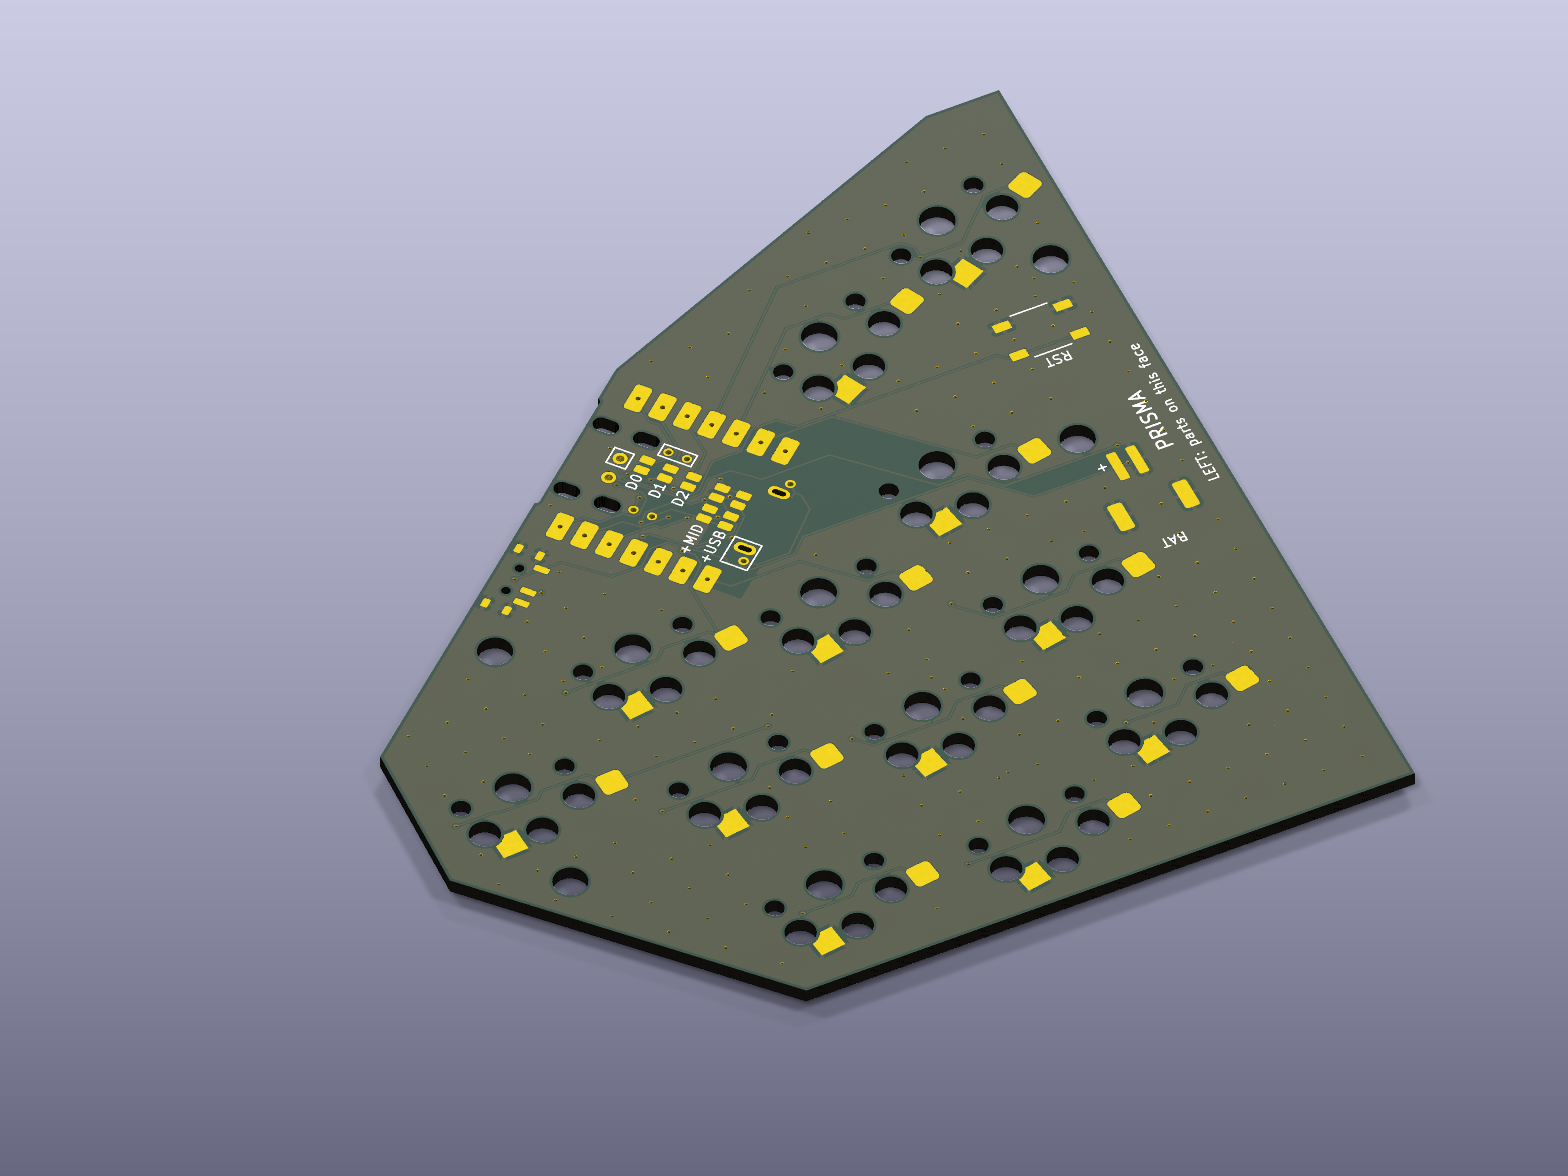
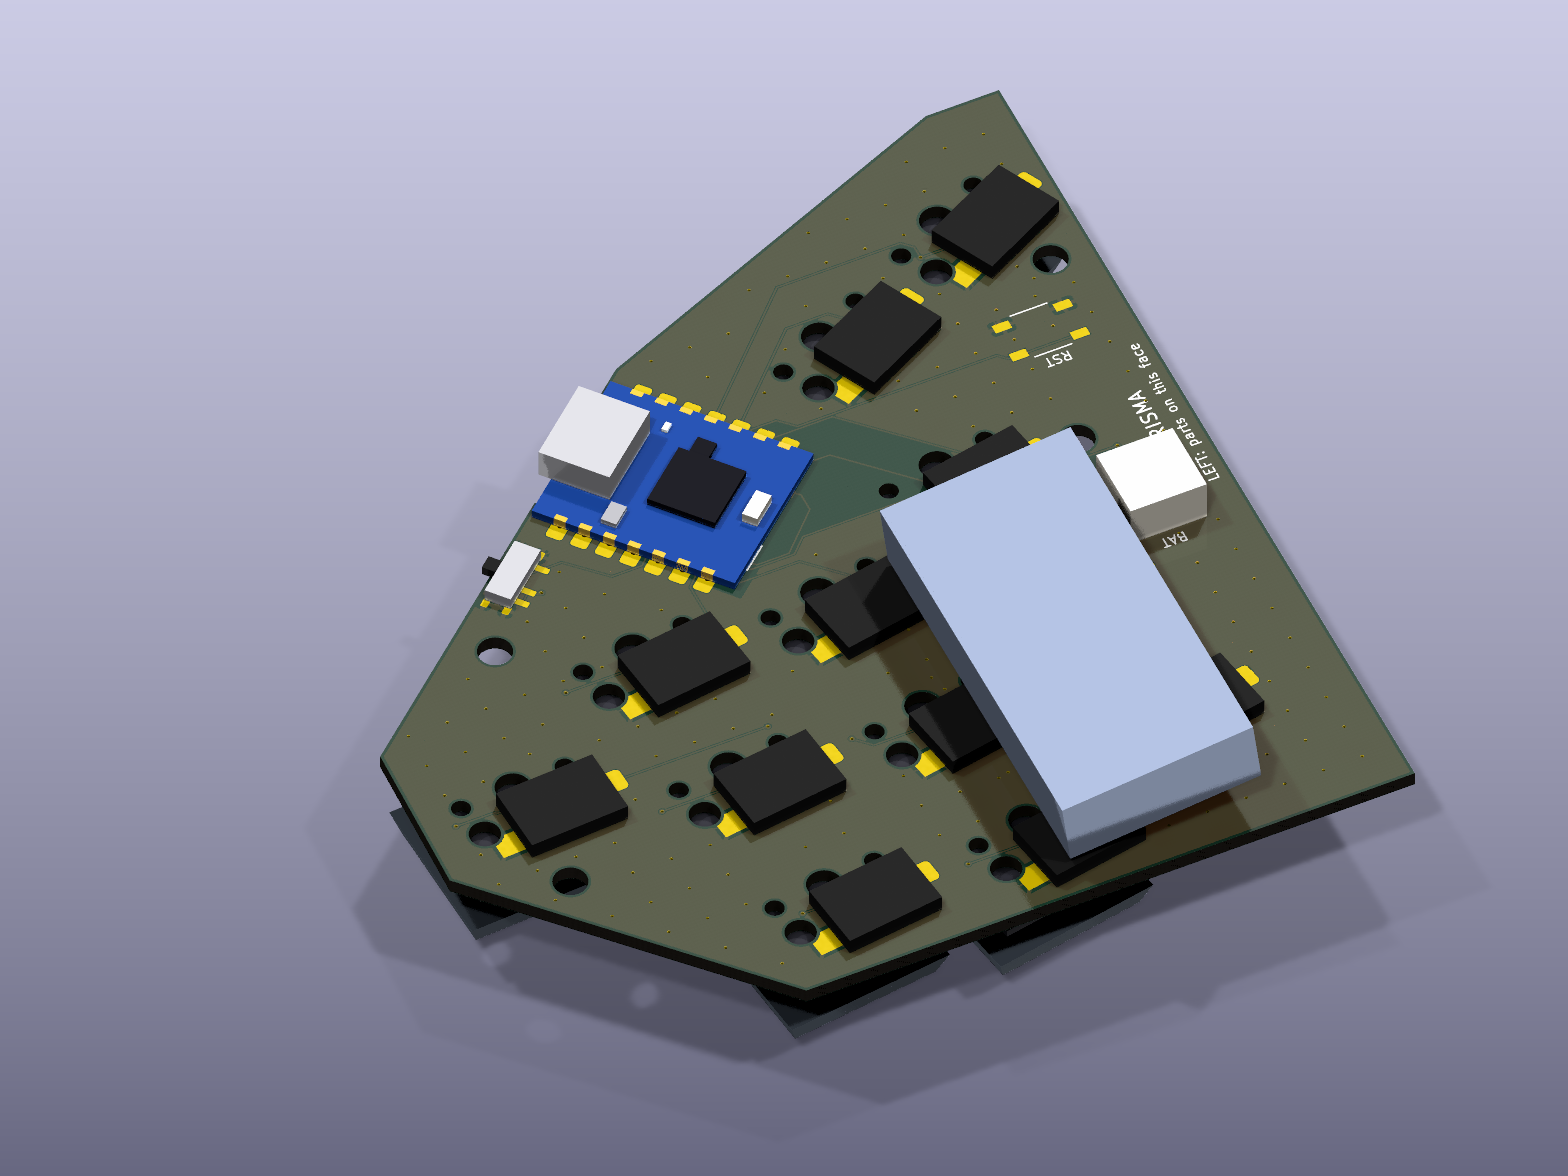
Illustrate each soldering step and fix the bare parts renders

diff --git a/index.html b/index.html
@@ -799,17 +799,18 @@ time. Both halves use the same PCB, turned over for the right half.</p>
 <div class="table"><table>
 <thead>
 <tr>
-<th>Parts face: controller, sockets and power switch</th>
-<th>Switch face: board artwork and soldering access</th>
+<th>Parts face: module, sockets, power switch, JST and battery</th>
+<th>Switch face: switches, keycaps and reset button</th>
 </tr>
 </thead>
 <tbody>
 <tr>
 <td><img alt="Populated parts face of the left half" src="renders/parts_bottom.png" /></td>
-<td><img alt="Opposite face of the left half's bare PCB" src="renders/board_top.png" /></td>
+<td><img alt="Populated switch face of the left half" src="renders/parts_top.png" /></td>
 </tr>
 </tbody>
 </table></div>
+<p>The pictures in steps 2–6 show the left half, adding one part at a time.</p>
 <h3 id="b-before-you-start">Before you start</h3>
 <ul>
 <li><strong>Flash and test the module first.</strong> Plug it into USB and double-tap reset: a USB drive appears. Copy the firmware onto it:</li>
@@ -868,6 +869,8 @@ time. Both halves use the same PCB, turned over for the right half.</p>
 <p>Leave the jumpers on the other face open: they're on the parts face, under where the module will sit.</p>
 <p><strong>Check:</strong> each bridged pair beeps on the multimeter, and the unbridged selector row doesn't.</p>
 <h3 id="b-2-solder-the-module-parts-face">2. Solder the module (parts face)</h3>
+<p><img alt="Module soldered flat on the left half's parts face" src="renders/step_module.png" /></p>
+<p><em>The module on its outline, components up, USB-C towards the board edge.</em></p>
 <ol>
 <li><strong>Pre-tin the module's underside pads</strong> that the boxed holes reach: the two battery pads (VBAT and GND on the XIAO, B+ and B- on the Super52840), the P0.09 pad (NFC1 on the XIAO, <code>009</code> on the Super52840) and RST. Flux each one and touch it with a lightly tinned iron, leaving a thin, flat coat. Wick off any bump: a blob lifts the module off its edge pads. In step 4 the solder fed into each hole then only has to melt into the coat that's already there.</li>
 <li>Flux the 14 edge pads. Lay the module flat over its outline with the USB-C end towards the board edge. The pads are pulled out past the module, so you can reach them from the side.</li>
@@ -886,6 +889,8 @@ time. Both halves use the same PCB, turned over for the right half.</p>
 <li>No two adjacent castellations beep to each other.</li>
 </ul>
 <h3 id="b-3-power-switch-msk-12c02-parts-face">3. Power switch, MSK-12C02 (parts face)</h3>
+<p><img alt="Power switch added beside the module's USB-C end" src="renders/step_switch.png" /></p>
+<p><em>Added: the power switch beside the USB-C port, lever out over the edge.</em></p>
 <p>It goes next to the module's USB-C, with the lever pointing out over the board edge and its two locating pegs in the small holes.</p>
 <ol>
 <li>Tin one of the four corner (shield) pads. Place the switch with tweezers and reheat that pad to tack it.</li>
@@ -893,14 +898,20 @@ time. Both halves use the same PCB, turned over for the right half.</p>
 <li>Solder the three signal pads with the fine tip and very little solder. A bridge between the middle pin and its near neighbour does no harm (both are VBAT). A bridge from the middle pin to the far one bypasses the switch: wick it away.</li>
 </ol>
 <h3 id="b-4-jst-battery-socket-parts-face">4. JST battery socket (parts face)</h3>
+<p><img alt="JST battery socket added at the BAT outline" src="renders/step_jst.png" /></p>
+<p><em>Added: the white JST socket at the <code>BAT</code> outline.</em></p>
 <p>Its opening faces the battery's spot under the inner keys. Tack one signal pin, check it sits flat, and solder the other pin. Then solder the two large mounting tabs: they need more heat and more solder, because they take the force of plugging the battery in.</p>
 <h3 id="b-5-hot-swap-sockets-parts-face">5. Hot-swap sockets (parts face)</h3>
+<p><img alt="Twelve hot-swap sockets added on the parts face" src="renders/step_sockets.png" /></p>
+<p><em>Added: the twelve black sockets, one per key.</em></p>
 <p>Twelve, one per key. Each socket fits its outline only one way round.</p>
 <ol>
 <li>Tin one pad lightly, place the socket, and hold it flat with tweezers while you reheat the pad until the socket's metal tab sinks into the solder.</li>
 <li>Solder the second tab. Use enough solder to make a fillet, but keep it out of the socket's opening.</li>
 </ol>
 <h3 id="b-6-reset-button-ts-1187a-switch-face">6. Reset button, TS-1187A (switch face)</h3>
+<p><img alt="Reset button on the switch face at the RST outline" src="renders/step_reset.png" /></p>
+<p><em>Turned over: the reset button at the <code>RST</code> outline.</em></p>
 <p>It goes on the <strong>switch face</strong>, in the gap above the thumb keys, inside its outline labelled <code>RST</code>. The part is square and symmetric: any of the four ways round works.</p>
 <ol>
 <li>Tin one corner pad, hold the button flat and centred with tweezers, and reheat the pad to tack it.</li>
@@ -980,6 +991,7 @@ time. Both halves use the same PCB, turned over for the right half.</p>
 <p><img alt="Both floors from below: the pads in black" src="renders/pads.png" /></p>
 <p>Clean the slots with isopropyl alcohol first and press each pad down firmly against the slot's roof, centred in its round end. Stack the halves to check: they should close flat, with no rocking.</p>
 <h3 id="b-taking-a-switch-out">Taking a switch out</h3>
+<p><img alt="Top plate with a pair of puller grooves at each switch opening" src="renders/plate.png" /></p>
 <p>The plates and the Choc lids carry two grooves per switch, as on the ZSA Voyager, because a Choc switch has no side indents for a puller to grip. A switch is held by four latch barbs under the plate's lip; a pull on the keycap is not meant to release it.</p>
 <ol>
 <li>Switch the keyboard off, unplug USB, and remove any module from the dock before inserting the metal puller. Then pull the keycap straight up with a keycap puller.</li>
@@ -1343,6 +1355,7 @@ the passive lid, and both powered dongles (headless and OLED).</p>
 </table></div>
 <p>Take it out of the dock, unplug USB, switch it off, and take off the keycaps and ball. Undo the four lid screws and tilt the lid up from the front. The main board stays: it is soldered to the eight stacking pins, so desolder them to take it out. On the trackpad the lid remains attached by the supplied flat cable and the separate DR wire; support it without pulling either, and release the FFC latch if the available slack is insufficient.</p>
 <h3 id="b-resetting-a-closed-half">Resetting a closed half</h3>
+<p><img alt="Assembled left half with the reset cone above the thumb keys" src="renders/full.png" /></p>
 <p>Press straight down into the cone above the thumbs with a fingertip (the pad, not the nail, is enough: the cone is 4.2 mm across at the top and the plunger 2.0 mm wide).</p>
 <ul>
 <li><strong>Once:</strong> the half reboots.</li>

diff --git a/render_boards.py b/render_boards.py
@@ -66,6 +66,28 @@ def main():
     model_fp(b, "CASE", "${KIPRJMOD}/3d/case.wrl")
     save(b, "full")
 
+    # BUILD.md's soldering steps, cumulative: only the parts fitted so far.
+    fitted = []
+    for step, refs in (("module", ["U1"]), ("switch", ["SW13"]), ("jst", ["J1"]),
+                       ("sockets", [f"SW{i}" for i in range(1, 13)]), ("reset", ["SW14"])):
+        fitted += refs
+        b = pcbnew.LoadBoard(SRC)
+        for fp in b.GetFootprints():
+            ref = fp.GetReference()
+            models = fp.Models()
+            if ref not in fitted:
+                models.clear()
+                continue
+            for i in range(len(models)):
+                m = models[i]
+                if ref in ("U1", "SW13", "J1"):      # under the board, as in "parts"
+                    m.m_Rotation = pcbnew.VECTOR3D(0, 180, 0)
+                    m.m_Offset = pcbnew.VECTOR3D(0, 0, -1.6)
+                elif ref != "SW14":                  # the socket without its switch and cap
+                    m.m_Filename = "${KIPRJMOD}/3d/choc_socket.wrl"
+                models[i] = m
+        save(b, f"step_{step}")
+
     # case alone: a speck of board at the case's centre (the camera centres on the board)
     xs = [p[0] for p in D["case_outline"]]
     ys = [p[1] for p in D["case_outline"]]

diff --git a/vrml.py b/vrml.py
@@ -70,6 +70,7 @@ def models(d="pcb/3d"):
         (box(-2.45, -8.45, -1.6 - 1.85, 7.75, -1.25, -1.6), SOCKET),
     ]
     write_parts(f"{d}/choc_v1_with_cap.wrl", switch)
+    write_parts(f"{d}/choc_socket.wrl", switch[-1:])                 # alone, for the build steps
     # XIAO nRF52840 as mounted on the F face (pad side down, USB end at -y); render_boards.py
     # turns it under the board for the parts on the bottom face. Seeed's layout: USB-C hanging
     # 1.3 mm past the end, nRF52840 mid-board, chip antenna at the far end, reset button and

diff --git a/BUILD.md b/BUILD.md
@@ -31,9 +31,11 @@ Each board has a **parts face** and a **switch face**. The silkscreen tells you 
 
 The module always lies flat on the parts face, with its pad side against the PCB and its components (USB-C, shield, reset button) pointing away from it, towards the case floor.
 
-| Parts face: controller, sockets and power switch | Switch face: board artwork and soldering access |
+| Parts face: module, sockets, power switch, JST and battery | Switch face: switches, keycaps and reset button |
 |---|---|
-| ![Populated parts face of the left half](renders/parts_bottom.png) | ![Opposite face of the left half's bare PCB](renders/board_top.png) |
+| ![Populated parts face of the left half](renders/parts_bottom.png) | ![Populated switch face of the left half](renders/parts_top.png) |
+
+The pictures in steps 2–6 show the left half, adding one part at a time.
 
 ## Before you start
 
@@ -73,6 +75,10 @@ Leave the jumpers on the other face open: they're on the parts face, under where
 
 ## 2. Solder the module (parts face)
 
+![Module soldered flat on the left half's parts face](renders/step_module.png)
+
+*The module on its outline, components up, USB-C towards the board edge.*
+
 0. **Pre-tin the module's underside pads** that the boxed holes reach: the two battery pads (VBAT and GND on the XIAO, B+ and B- on the Super52840), the P0.09 pad (NFC1 on the XIAO, `009` on the Super52840) and RST. Flux each one and touch it with a lightly tinned iron, leaving a thin, flat coat. Wick off any bump: a blob lifts the module off its edge pads. In step 4 the solder fed into each hole then only has to melt into the coat that's already there.
 1. Flux the 14 edge pads. Lay the module flat over its outline with the USB-C end towards the board edge. The pads are pulled out past the module, so you can reach them from the side.
 2. **Tack two opposite corners:** put solder on the iron, touch it to the board pad and the castellation together, and let it flow. Check the module is flat and every castellation sits over its pad. Reheat a corner to adjust it.
@@ -92,6 +98,10 @@ The battery holes and one P0.09 hole are smaller than the rest (0.6 mm, as large
 
 ## 3. Power switch, MSK-12C02 (parts face)
 
+![Power switch added beside the module's USB-C end](renders/step_switch.png)
+
+*Added: the power switch beside the USB-C port, lever out over the edge.*
+
 It goes next to the module's USB-C, with the lever pointing out over the board edge and its two locating pegs in the small holes.
 
 1. Tin one of the four corner (shield) pads. Place the switch with tweezers and reheat that pad to tack it.
@@ -100,9 +110,17 @@ It goes next to the module's USB-C, with the lever pointing out over the board e
 
 ## 4. JST battery socket (parts face)
 
+![JST battery socket added at the BAT outline](renders/step_jst.png)
+
+*Added: the white JST socket at the `BAT` outline.*
+
 Its opening faces the battery's spot under the inner keys. Tack one signal pin, check it sits flat, and solder the other pin. Then solder the two large mounting tabs: they need more heat and more solder, because they take the force of plugging the battery in.
 
 ## 5. Hot-swap sockets (parts face)
+
+![Twelve hot-swap sockets added on the parts face](renders/step_sockets.png)
+
+*Added: the twelve black sockets, one per key.*
 
 Twelve, one per key. Each socket fits its outline only one way round.
 
@@ -110,6 +128,10 @@ Twelve, one per key. Each socket fits its outline only one way round.
 2. Solder the second tab. Use enough solder to make a fillet, but keep it out of the socket's opening.
 
 ## 6. Reset button, TS-1187A (switch face)
+
+![Reset button on the switch face at the RST outline](renders/step_reset.png)
+
+*Turned over: the reset button at the `RST` outline.*
 
 It goes on the **switch face**, in the gap above the thumb keys, inside its outline labelled `RST`. The part is square and symmetric: any of the four ways round works.
 
@@ -157,6 +179,8 @@ The base is solid up to the PCB's underside, with a pocket for every part. The P
    Clean the slots with isopropyl alcohol first and press each pad down firmly against the slot's roof, centred in its round end. Stack the halves to check: they should close flat, with no rocking.
 
 ## Taking a switch out
+
+![Top plate with a pair of puller grooves at each switch opening](renders/plate.png)
 
 The plates and the Choc lids carry two grooves per switch, as on the ZSA Voyager, because a Choc switch has no side indents for a puller to grip. A switch is held by four latch barbs under the plate's lip; a pull on the keycap is not meant to release it.
 
@@ -356,6 +380,8 @@ The power switch disconnects the battery from both controller and charger: **cha
 Take it out of the dock, unplug USB, switch it off, and take off the keycaps and ball. Undo the four lid screws and tilt the lid up from the front. The main board stays: it is soldered to the eight stacking pins, so desolder them to take it out. On the trackpad the lid remains attached by the supplied flat cable and the separate DR wire; support it without pulling either, and release the FFC latch if the available slack is insufficient.
 
 ## Resetting a closed half
+
+![Assembled left half with the reset cone above the thumb keys](renders/full.png)
 
 Press straight down into the cone above the thumbs with a fingertip (the pad, not the nail, is enough: the cone is 4.2 mm across at the top and the plunger 2.0 mm wide).
 
